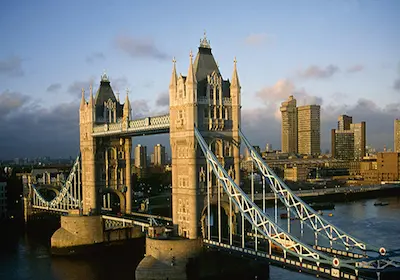
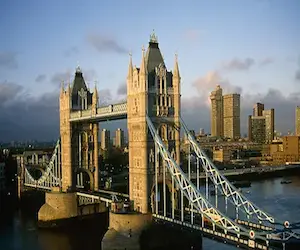
image optimizations

diff --git a/src/pages/tours/index.js b/src/pages/tours/index.js
@@ -98,7 +98,7 @@ const Tours = (props) => {
                                     return (
                                         <Link href={`${language === "en" ? "" : `${language}`}${item.pathname}`} title={item?.pageTitle} className={`${styles.card}`} key={item.tourDealId}>
                                             <div className={styles.card_image_div}>
-                                                <Image quality={50} loading="lazy" src={`${tourCustomImages[index].image}`} className={styles.img} fill alt={item.headTitle} sizes="(max-width: 768px) 100vw, 50vw" />
+                                                <Image quality={30} loading="lazy" src={`${tourCustomImages[index].image}`} className={styles.img} fill alt={item.headTitle} sizes="(max-width: 768px) 100vw, 50vw" />
                                             </div>
                                             <div className={styles.card_body}>
                                                 <h2>{item.pageTitle}</h2>

diff --git a/src/components/widgets/Footer/index.js b/src/components/widgets/Footer/index.js
@@ -1,10 +1,10 @@
 import Image from 'next/image'
 import { useDispatch, useSelector } from 'react-redux'
-import logoImage from '../../../../public/logos/blueLogoAirPort.png'
-import fbImage from '../../../../public/social/fb.gif';
-import twImage from '../../../../public/social/tw.gif';
-import srImage from '../../../../public/social/rss.png';
-import instaIamge from '../../../../public/social/Instigram.gif';
+import logoImage from '../../../../public/logos/blueLogoAirPort.webp'
+import fbImage from '../../../../public/social/fb.webp';
+import twImage from '../../../../public/social/tw.webp';
+import srImage from '../../../../public/social/rss.webp';
+import instaIamge from '../../../../public/social/Instigram.webp';
 import styles from "./styles.module.scss"
 import { Airports, CruisePorts } from '../../../constants/navigatior';
 const Footer = (props) => {

diff --git a/src/components/widgets/SeaportTransfers/styles.module.scss b/src/components/widgets/SeaportTransfers/styles.module.scss
@@ -56,6 +56,7 @@
                             cursor: pointer;
                             user-select: none;
                             position: relative;
+                                max-width: 400px;
 
                             &:hover {
                                 transform: scale(1.04);
@@ -67,7 +68,7 @@
                             .img_div {
                                 border-top-left-radius: 5px;
                                 border-top-right-radius: 5px;
-                                height: 250px;
+                                height: 280px;
                                 width: 100%;
                                 position: relative;
 

diff --git a/src/components/widgets/Footer/styles.module.scss b/src/components/widgets/Footer/styles.module.scss
@@ -99,14 +99,6 @@
                     .logo {
                         margin-bottom: 10px;
                         display: flex;
-
-                        @media(max-width:450px) {
-                            img {
-                                max-width: 300px;
-                                width: 100%;
-                            }
-                        }
-
                     }
 
                     p {

diff --git a/src/pages/tours/styles.module.scss b/src/pages/tours/styles.module.scss
@@ -86,7 +86,8 @@
 
                         .card_image_div {
                             overflow: hidden;
-                            height: 300px;
+                            height: 250px;
+                            width: 300px;
                             margin-bottom: 10px;
                             position: relative;
 
